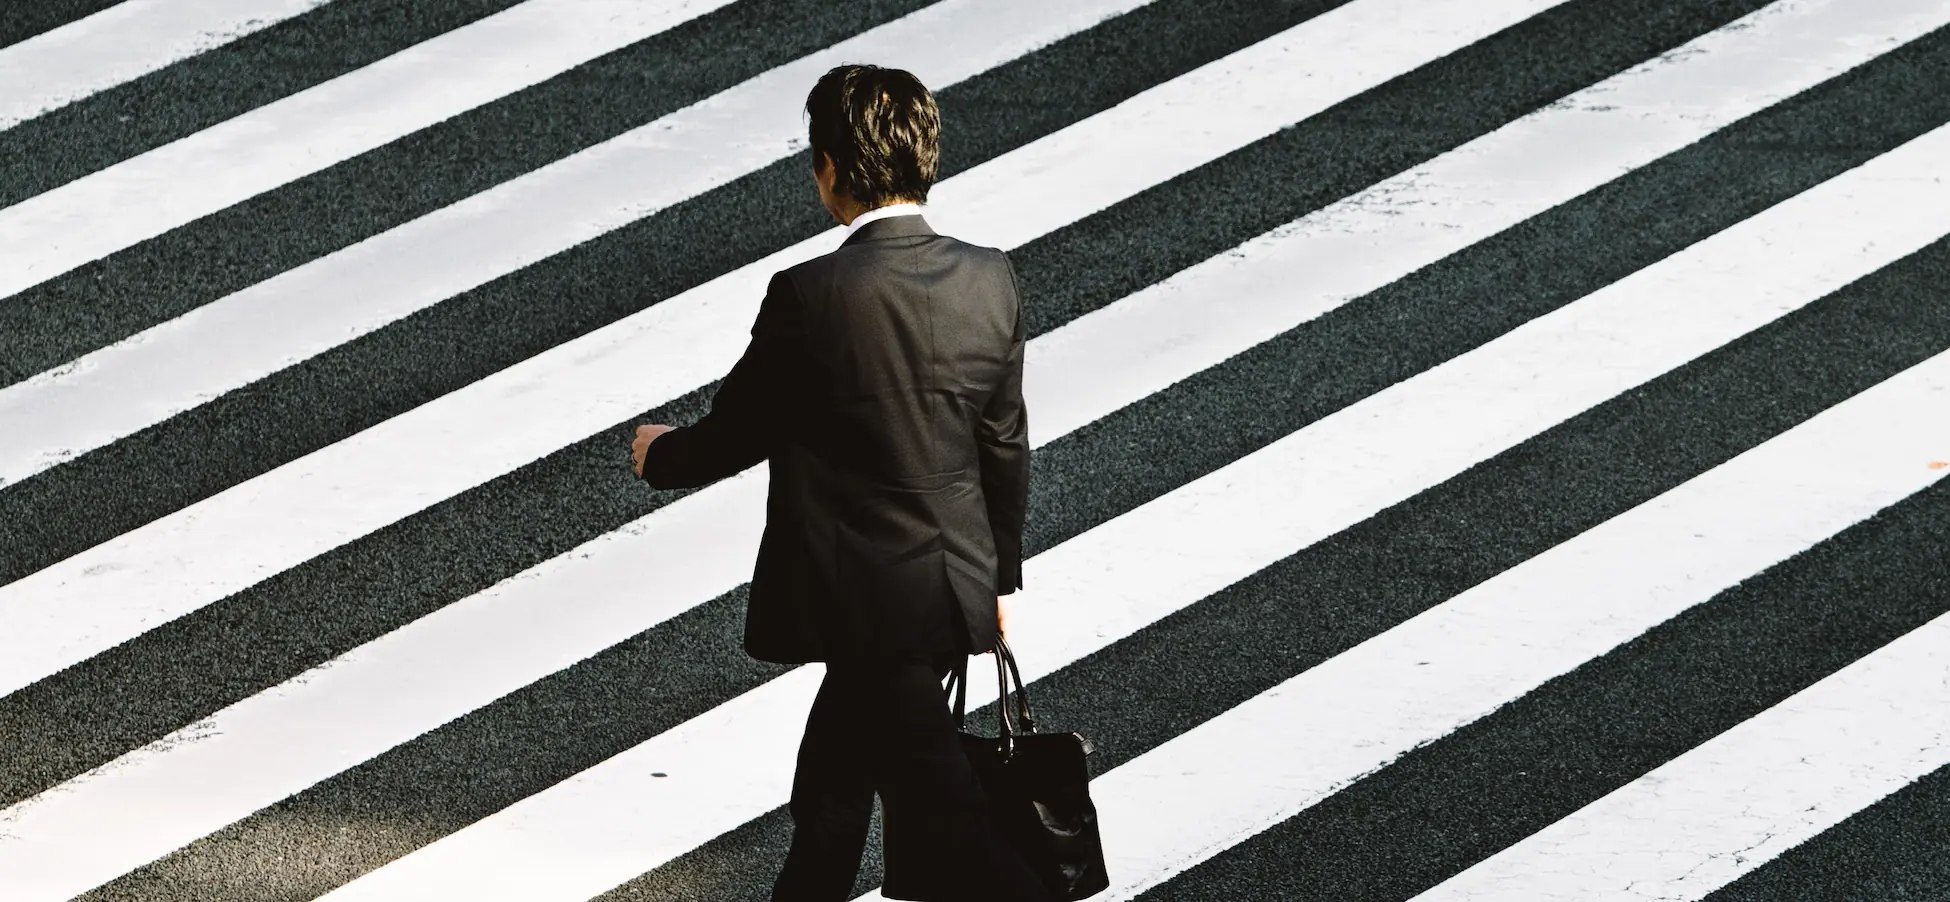
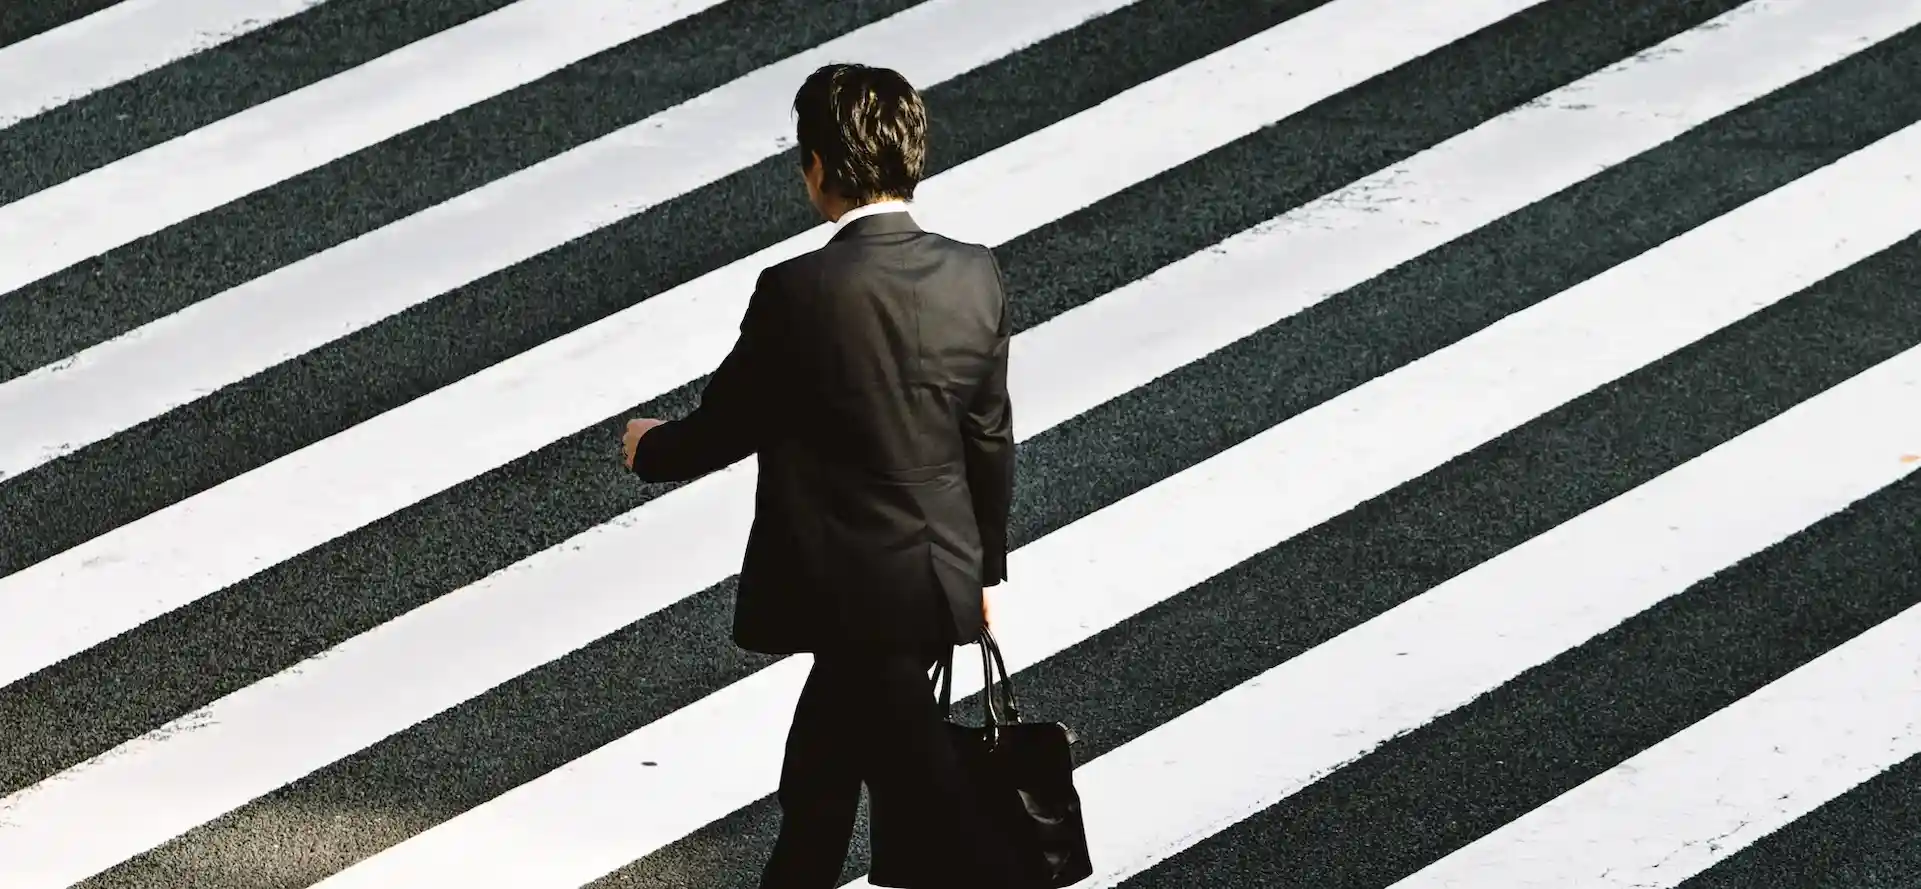
minimised img of salaryman in slider

Changed region(s): [[0.0937, 0.9415, 0.1249, 0.9719]]

diff --git a/index.html b/index.html
@@ -38,7 +38,8 @@
 							./assets/images/slider/ryoji-iwata_salary-man_650w_phone.webp 650w,"
 					sizes="(min-width: 650px) 1200px, 100vw"
 					class="d-block w-100" 
-					alt="salaryman crossing a road in Japan">
+					alt="salaryman crossing a road in Japan"
+					width="1921px">
 			</div>
 			<div class="carousel-item">
 				<img src="./assets/images/slider/nicholas-green_crowd-living-the-music.webp" class="d-block w-100" alt="lit-up faces of music fans in a concert crowd">
